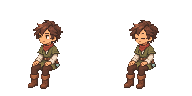
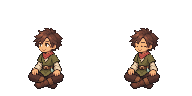
Replace coder sit asset with cross-legged ground rest

Changed region(s): [[0.625, 0.1875, 0.8438, 0.9375], [0.125, 0.1875, 0.3438, 0.9375]]

diff --git a/graphics/characters/coder/brief.md b/graphics/characters/coder/brief.md
@@ -8,7 +8,7 @@ Made like the others (see graphics/README.md "캐릭터 만들기"): `trace.py c
 - Hair and trousers share one chestnut, so the rows part them (hair to 22 rows below the crown); the far boot is shaded as dark as the trousers, so it is leather from 62 rows down.
 - The tunic's dark folds are drawn as outline, and the sleeves' warm grey shadows stay ivory rather than leather.
 - `head.png` is `head.py coder 24 14 22 5 17`: the sheet's own face with skin in flat shades, then by hand the far eye moved down a row to sit level with the near one (lid, iris, glint), thin brows a row above each lid, the sheet's blush, a stray speck cleared, and the bright hair locks one shade above the cleaned hair.
-- The sheet's sit is on an implied bench, legs hanging, not cross-legged on the ground.
+- `sit.png` now rests cross-legged on the ground. Only the image asset was replaced; the app's generated coder figure still needs the other agent's trace/apply pass.
 
 ## master
 
@@ -126,32 +126,34 @@ Whole head/chest/pelvis/knees/toes face lower-left. Feet move left AND toward vi
 
 ## sit
 
-### Adventurer — Sit
+### Cross-legged ground rest
 
-#### Generation prompt
+Use case: identity-preserve, single-action sprite replacement.
+Create ONLY the CODER's seated-rest animation sheet for an existing woodland camp game. Replace the implied-bench sitting with CROSS-LEGGED GROUND SITTING (양반다리 / simple tailor's seat).
 
-Use case: identity-preserve with anatomical pose guidance.
-Create the EXISTING adventurer ward-mage in the requested action. The original master reference is the exact identity, not inspiration for a redesign. Preserve its actual accepted head/body ratio rather than trying to enforce an earlier numerical ideal.
+REFERENCE ROLES
+Image1 is coder/idle.png: exact character identity, actual moderate head/body ratio, short tousled chestnut hair, warm skin, hazel eyes, muted sage green travel tunic, ivory sleeves and cuffs, short brick-red neckerchief, brown belt, cocoa trousers and cuffed brown boots. The SMALL flat pale-teal wardstone stays secured on SCREEN-RIGHT belt. Preserve these exact features; no new costume or accessories. Image2 is coder/head.png: existing hand-finished face and hair reference ONLY, never enlarge the head or reproduce it as a separate floating portrait. Image3 is researcher/sit.png: use ONLY its cross-legged ground pose and compact seated silhouette, not its face, hair, clothing, glasses or prop.
 
-IDENTITY LOCK
-Same short tousled dark-chestnut hair with the same fringe and broad locks, warm tan/light-medium skin, expressive hazel-brown eyes with modest highlights, gentle eyebrows, small confident friendly smile. Same moderately enlarged head, visible short neck, substantial compact torso, actual knees and sturdy boots. No growing hair volume or baby head, new face, realistic jaw or lanky limbs. Same sage/olive-green short travel tunic with its split upper-thigh hem, ivory sleeves and broad cuffs, close-fitting faded brick-red neckerchief, narrow brown belt, cocoa trousers and brown cuffed boots. Maintain clothing cuts, hems, palette, scale and pixel density. No hood, hat, cape, armor, staff, sword, bag, researcher mantle or amber orb.
+LAYOUT AND CONTINUITY
+Exactly TWO complete-body frames in a HORIZONTAL strip of TWO EQUAL SQUARE CELLS. Reading left to right: frame1 open-eyed calm resting smile, frame2 a quiet closed-eye blink. Both bodies have IDENTICAL position, dimensions, hands, clothes, belt prop and crossed legs; only eyelids change. Do not move the head, breathe by scaling, tilt the torso, shift the mouth or vary the silhouette between frames. Generous transparent margins in each cell; entire hair, hands, knees and boot soles inside their own cell. No overlap between cells, lines, numbering or captions.
 
-ONE PHYSICAL TOOL
-Exactly one small flat pale-teal wardstone in the existing leather attachment at the visible screen-right/near-side belt. Match its actual size and shape. In idle/walk/seated, keep it secured. During casting, the near hand unclips that SAME stone while the persistent leather tab stays attached and visibly EMPTY, then returns it at the end. Never duplicate a stone between hands and belt or erase the attachment. It is not a round crystal ball. Physical tool highlights are subdued; all emitted magic is a separate ground layer.
+ANATOMY AND POSE
+Character rests directly on invisible flat ground with weight on pelvis. Thighs open comfortably to the sides; both knees bend outward and stay LOW, near the ground. BOTH shins fold inward across the front of the pelvis; ankles cross and boot toes tuck below/opposite knees. A clear broad shallow triangular lower-body silhouette, stable crossed boot overlap in front. Both boots remain attached continuously through shin to knee and thigh; no detached feet, straight dangling calves, standing legs, hover squat, kneeling, lotus feet on thighs, chair or stool pose. Boots are substantial but must not hide the entire crossed-shin structure.
+Torso upright and relaxed. Empty hands rest on their respective thighs, elbows bent softly, shoulders relaxed. Exactly two hands, two knees, two legs, two boots. The tunic folds naturally above the crossed legs; belt and stone remain in their normal attachment, never held.
+Use the SAME physical head width and upper-body dimensions as standing coder, so seated body is naturally shorter, approximately 60–70% of standing silhouette height. Do NOT inflate head, shrink torso to a baby, or enlarge sitting figure to fill the full standing height.
 
-CAMERA AND ANATOMY
-Same gently elevated FRONT THREE-QUARTER toward screen LOWER-LEFT. Both eyes visible, far eye narrower; show chest front and narrower near-side plane, some hair crown, shoulder tops and boot tops. Do not copy a frontal body with sideways feet. Head/chest/pelvis/knees/toes share one lower-left heading; no one-eye profile, camera rotation or whole-character mirror within a sheet. Near anatomical shoulder and hip start at screen-right on the wardstone side. Near limbs keep ownership when crossing the silhouette. Far limbs start screen-left and render behind where occluded. Slightly warmer/lighter near trousers, darker far trousers. Trace continuous hip→knee→ankle→boot and shoulder→elbow→hand connections. Guide pink=near and teal=far; replace guide colors with actual clothes, never print bones or text.
+CAMERA AND STYLE
+Elevated orthographic FRONT THREE-QUARTER facing screen LOWER-LEFT, camera above around20–25degrees. BOTH eyes visible when open, far eye narrower. See crown, chest front and narrow side plane, tops of shoulders, thighs and crossed boots. Face, chest, pelvis and knees share coherent orientation. Never pure profile or straight-on flat portrait. Preserve coder's original friendly young-adult classic-JRPG appeal.
+Crisp grouped pixel art suitable for later96x96 cells: stepped contours, restrained matte colors, neutral upper-left material shading, coherent clusters, readable fingers and clothing masses. No glossy3D, smooth painting, fine texture noise, dithering, fuzzy outline or sticker border.
 
-SHEET AND REGISTRATION
-Follow the action block's exact frame count, equal cells and row-major order. One complete figure per cell, no extra views. Same body dimensions, head width, limb lengths, camera and ground-root position. Standing crown approximately 7% from cell top and boot soles around 90%, generous side margins; these are layout guides, not permission to stretch the body. A supplied skeleton controls joint connections and phase, not a new face/outfit. Never center each changing silhouette independently or enlarge a seated figure to standing height. Lifted feet stay lifted; don't align every boot to the floor. Planted poses retain consistent soles and belt/root anchors. Keep sleeves, hands, crown and boots within each cell.
+CUTOUT INVARIANTS
+Genuine transparent RGBA outside character and in limb gaps. Opaque solid body; no white/gray background, checkerboard drawing, paper texture, ground, shadow, pedestal, chair, bench, cushion, scene, border, text, watermark, aura, glow, sparks or magic circle. Output contains exactly the two seated coder bodies and nothing else.
 
-PIXEL CUTOUT
-Crisp stepped edges and deliberate grouped warm colors on a coherent coarse pixel grid, neutral upper-left material shading, readable in a later 96×96 logical cell. No smooth painted anime portrait, glossy 3D, skin texture, fabric noise, dithering cloud, contour blur or heavy sticker border. Actual transparent PNG, zero alpha outside the body and inside limb gaps. Opaque character pixels, no translucent body. No brown/green halo, colored edge noise, shadow, floor, pedestal, drawn checkerboard, gradient backdrop, labels, numbers, gridlines, border, watermark or scenery. No glow, particles, light rays or magic circles baked into the character. Preserve the face and readable hand/prop contacts.
+#### Saved result
 
-TWO frames side by side in equal square cells, SEATED REST. Image 1 fixes the accepted adventurer identity and physical size. Character only, NO bench, stool, floor or environment. Sit naturally on an implied horizontal bench: pelvis seated, thighs extend toward front/lower-left, both knees bend downward and both complete boots hang/read below them. Preserve actual thigh/shin proportions and the near/far depth order. Hands rest lightly on thighs, single stone secured at belt. Green tunic hem folds around upper thighs, never hides both legs or becomes a long robe.
-1 relaxed seated pose with eyes open, gentle smile.
-2 same hip/seat anchor, knees, hands, stone and boots; tiny natural blink.
-Same head width and body scale as standing, shorter total silhouette. Do not enlarge to fill the cell, squat, kneel or depict a standing figure with bent knees. Clean empty space below/around figure; leave room for later bench composition. Seat fit remains a later integration check.
+Generated with the built-in image tool on 2026-11-26. `sit-source.png` preserves the original two-frame transparent sheet. `sit.png` contains two 96px square cells (192×96 RGBA), uniformly scaled from the source using the existing idle head width, aligned to the same bottom baseline, with nearest-neighbor sampling and alpha threshold 220. Both poses have crossed legs and hands on thighs; the second closes its eyes. No bench, floor or magic is drawn. Small generated clothing and face variations remain.
+
+This delivery changes image assets and this brief only. `src/frontend/camp/art/people/coder.js` has not been regenerated; applying the pose to the app belongs to the other agent.
 
 ## cast-start
 
